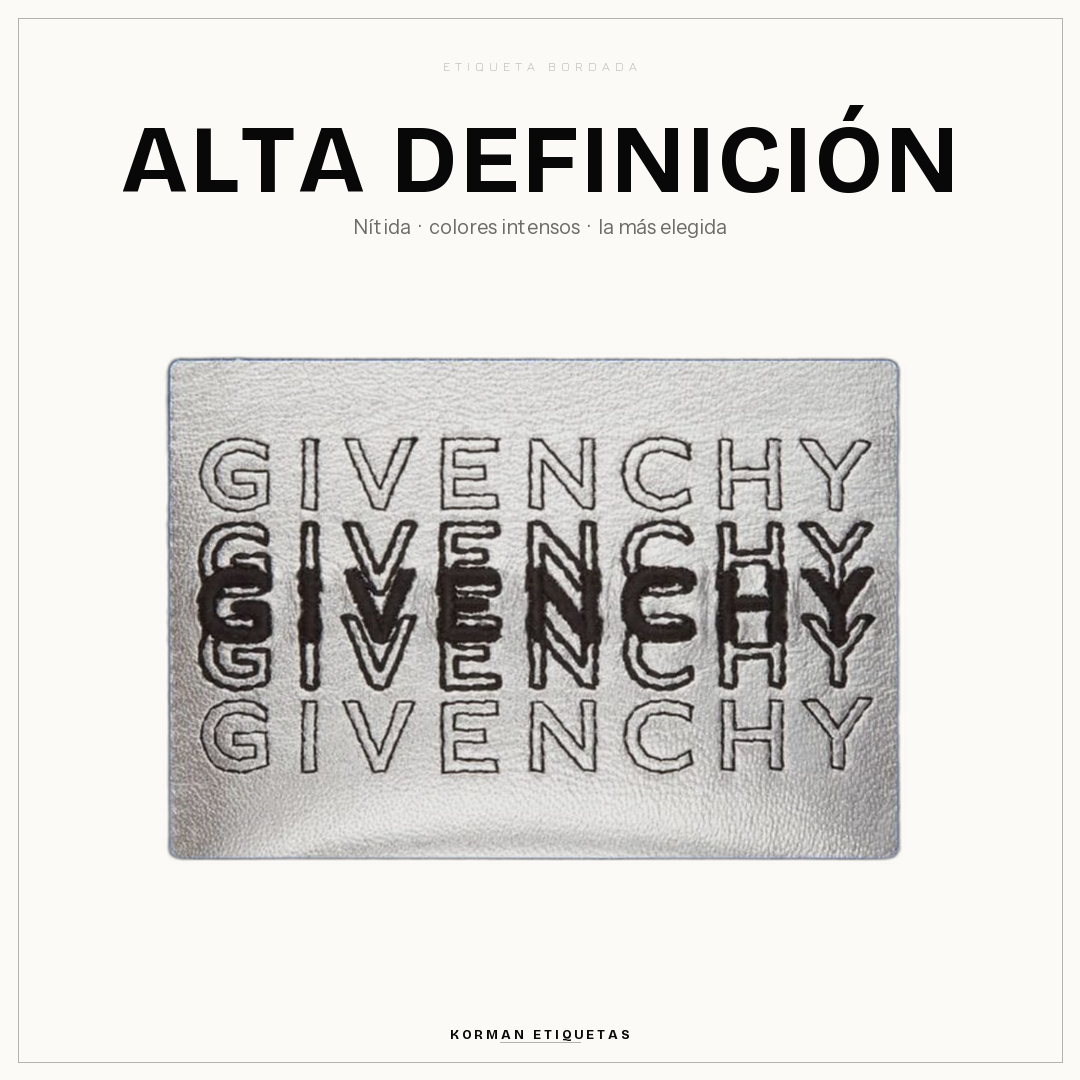
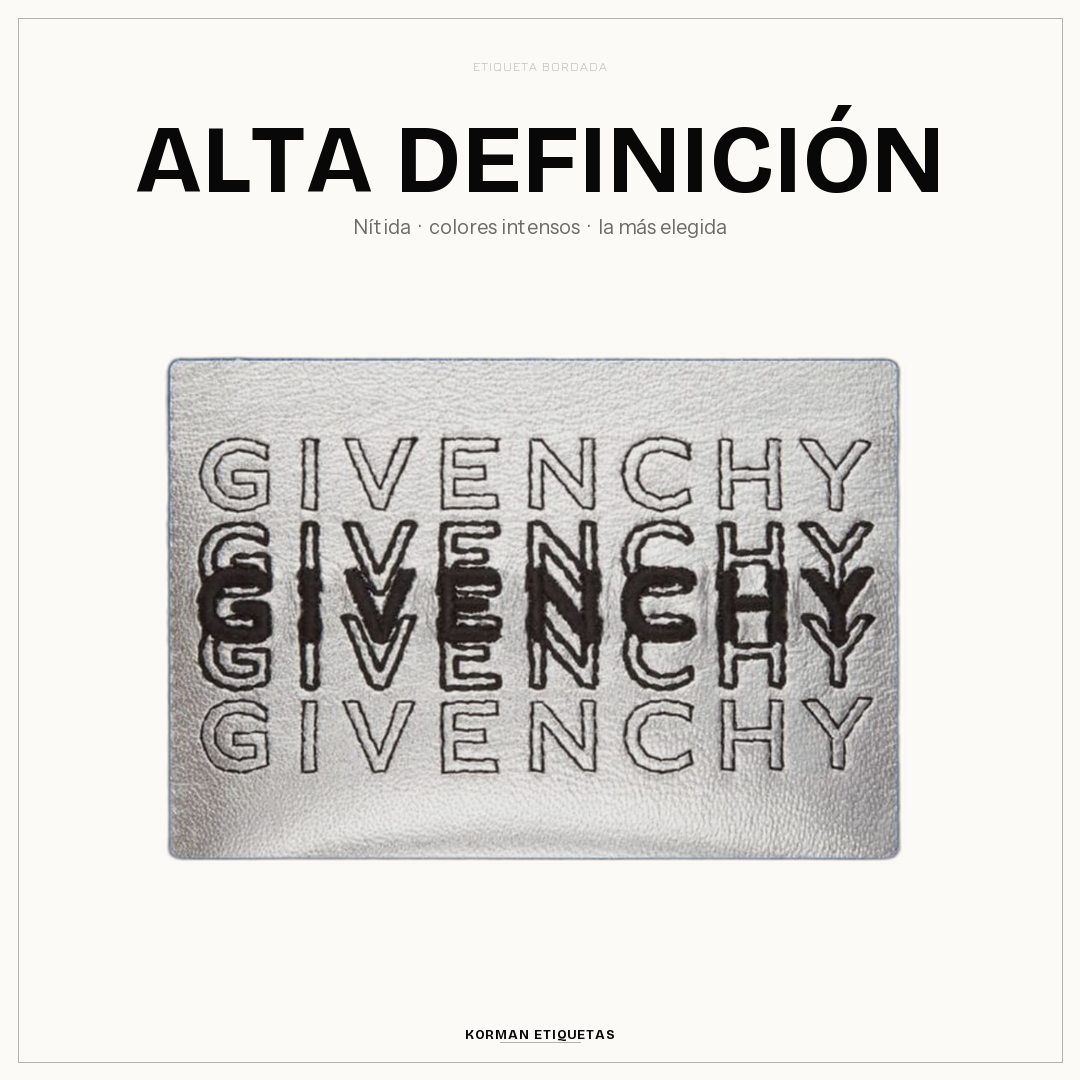
Reduce letter spacing in posts v5
Claude-Session: https://claude.ai/code/session_017RDuaEkxS43SZ1xs4UNenw

Changed region(s): [[0.55, 0.0917, 0.8861, 0.1833], [0.0917, 0.1222, 0.4583, 0.1833], [0.4278, 0.9472, 0.5806, 0.9778]]

diff --git a/generate_posts_v5.py b/generate_posts_v5.py
@@ -94,18 +94,18 @@ def make_post(filename, tipo, titulo, descripcion, png_label):
     # ── TIPO — texto pequeño arriba centrado ──────────────────────────────────
     f_tipo = fnt("Jura-Light.ttf", 13)
     tipo_y = 58
-    tipo_w = tw(draw, tipo, f_tipo, 5)
-    draw_t(draw, (W - tipo_w) // 2, tipo_y, tipo, f_tipo, GRAY_LT, 5)
+    tipo_w = tw(draw, tipo, f_tipo, 1)
+    draw_t(draw, (W - tipo_w) // 2, tipo_y, tipo, f_tipo, GRAY_LT, 1)
 
     # ── TÍTULO — grande, negro, tracking suave ────────────────────────────────
     f_title = fnt("BricolageGrotesque-Bold.ttf", 96)
-    while tw(draw, titulo, f_title, 2) > W - 120:
+    while tw(draw, titulo, f_title, 0) > W - 120:
         sz = f_title.size - 4
         if sz < 48: break
         f_title = fnt("BricolageGrotesque-Bold.ttf", sz)
 
     titulo_y = tipo_y + 44
-    draw_t(draw, cx_t(draw, titulo, f_title, 2), titulo_y, titulo, f_title, BLACK, 2)
+    draw_t(draw, cx_t(draw, titulo, f_title, 0), titulo_y, titulo, f_title, BLACK, 0)
 
     # ── DESCRIPCIÓN — debajo del título, gris ────────────────────────────────
     f_desc = fnt("InstrumentSans-Regular.ttf", 20)
@@ -127,8 +127,8 @@ def make_post(filename, tipo, titulo, descripcion, png_label):
     # ── BRAND MARK — abajo centrado ───────────────────────────────────────────
     f_brand = fnt("BricolageGrotesque-Bold.ttf", 13)
     brand   = "KORMAN ETIQUETAS"
-    bw      = tw(draw, brand, f_brand, 3)
-    draw_t(draw, (W - bw) // 2, H - 54, brand, f_brand, BLACK, 3)
+    bw      = tw(draw, brand, f_brand, 1)
+    draw_t(draw, (W - bw) // 2, H - 54, brand, f_brand, BLACK, 1)
 
     # ── LÍNEA DECORATIVA FINA bajo el brand — detalle elegante ───────────────
     line_y = H - 38
